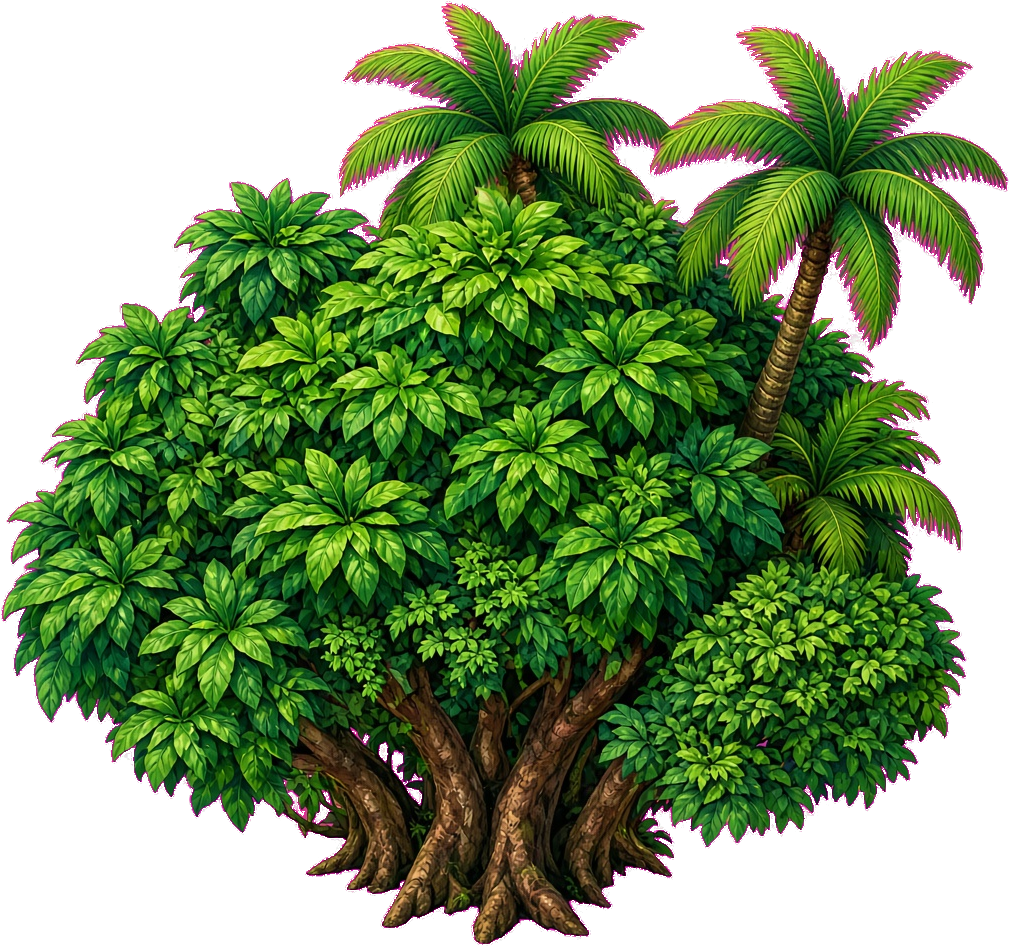
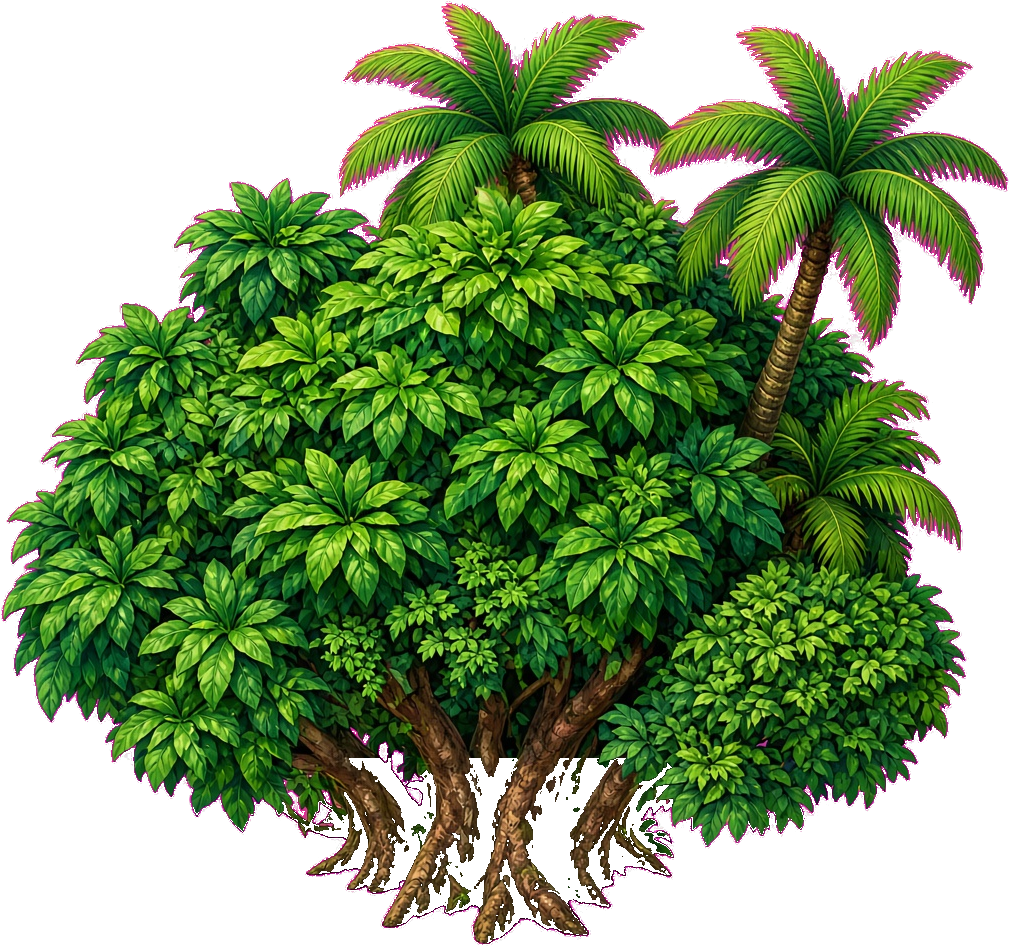
Move the match label off the bar and drop tree-shadow blotches.
Normal · 0m sits as a 10px caption under the bar instead of crowding the chips. The dark ellipse baked into each jungle sprite is gone, so the mid-ground no longer picks up those blotches.

Changed region(s): [[0.3069, 0.7962, 0.6752, 1.0]]

diff --git a/src/components/GameScreen.tsx b/src/components/GameScreen.tsx
@@ -1696,12 +1696,6 @@ export function GameScreen() {
               >
                 <Timer className="size-3.5 text-crystal" />
               </ResourcePill>
-              <span
-                data-testid="pace-label"
-                className="shrink-0 font-display text-[13px] leading-none tracking-wide text-brass"
-              >
-                {climbLabel(sim)}
-              </span>
               <div className="ml-auto flex shrink-0 items-center gap-1">
                 {online ? null : <SpeedControl speed={speed} onChange={setSpeed} compact />}
                 <IconButton
@@ -1745,6 +1739,12 @@ export function GameScreen() {
             <div className="flex min-h-0 flex-1">
             <div className="relative min-h-0 min-w-0 flex-1">
               <canvas ref={canvasRef} className="h-full w-full touch-none" data-testid="battlefield" />
+              <p
+                data-testid="pace-label"
+                className={`pointer-events-none absolute left-1/2 z-10 -translate-x-1/2 font-display text-[10px] leading-none tracking-wide text-muted ${portrait || short ? "top-0.5" : "top-9"}`}
+              >
+                {climbLabel(sim)}
+              </p>
               <div
                 data-testid="alert-lane"
                 className={`pointer-events-none absolute left-2 z-20 flex w-[min(58%,360px)] flex-col gap-1 ${portrait || short ? "top-1" : "top-10"}`}
